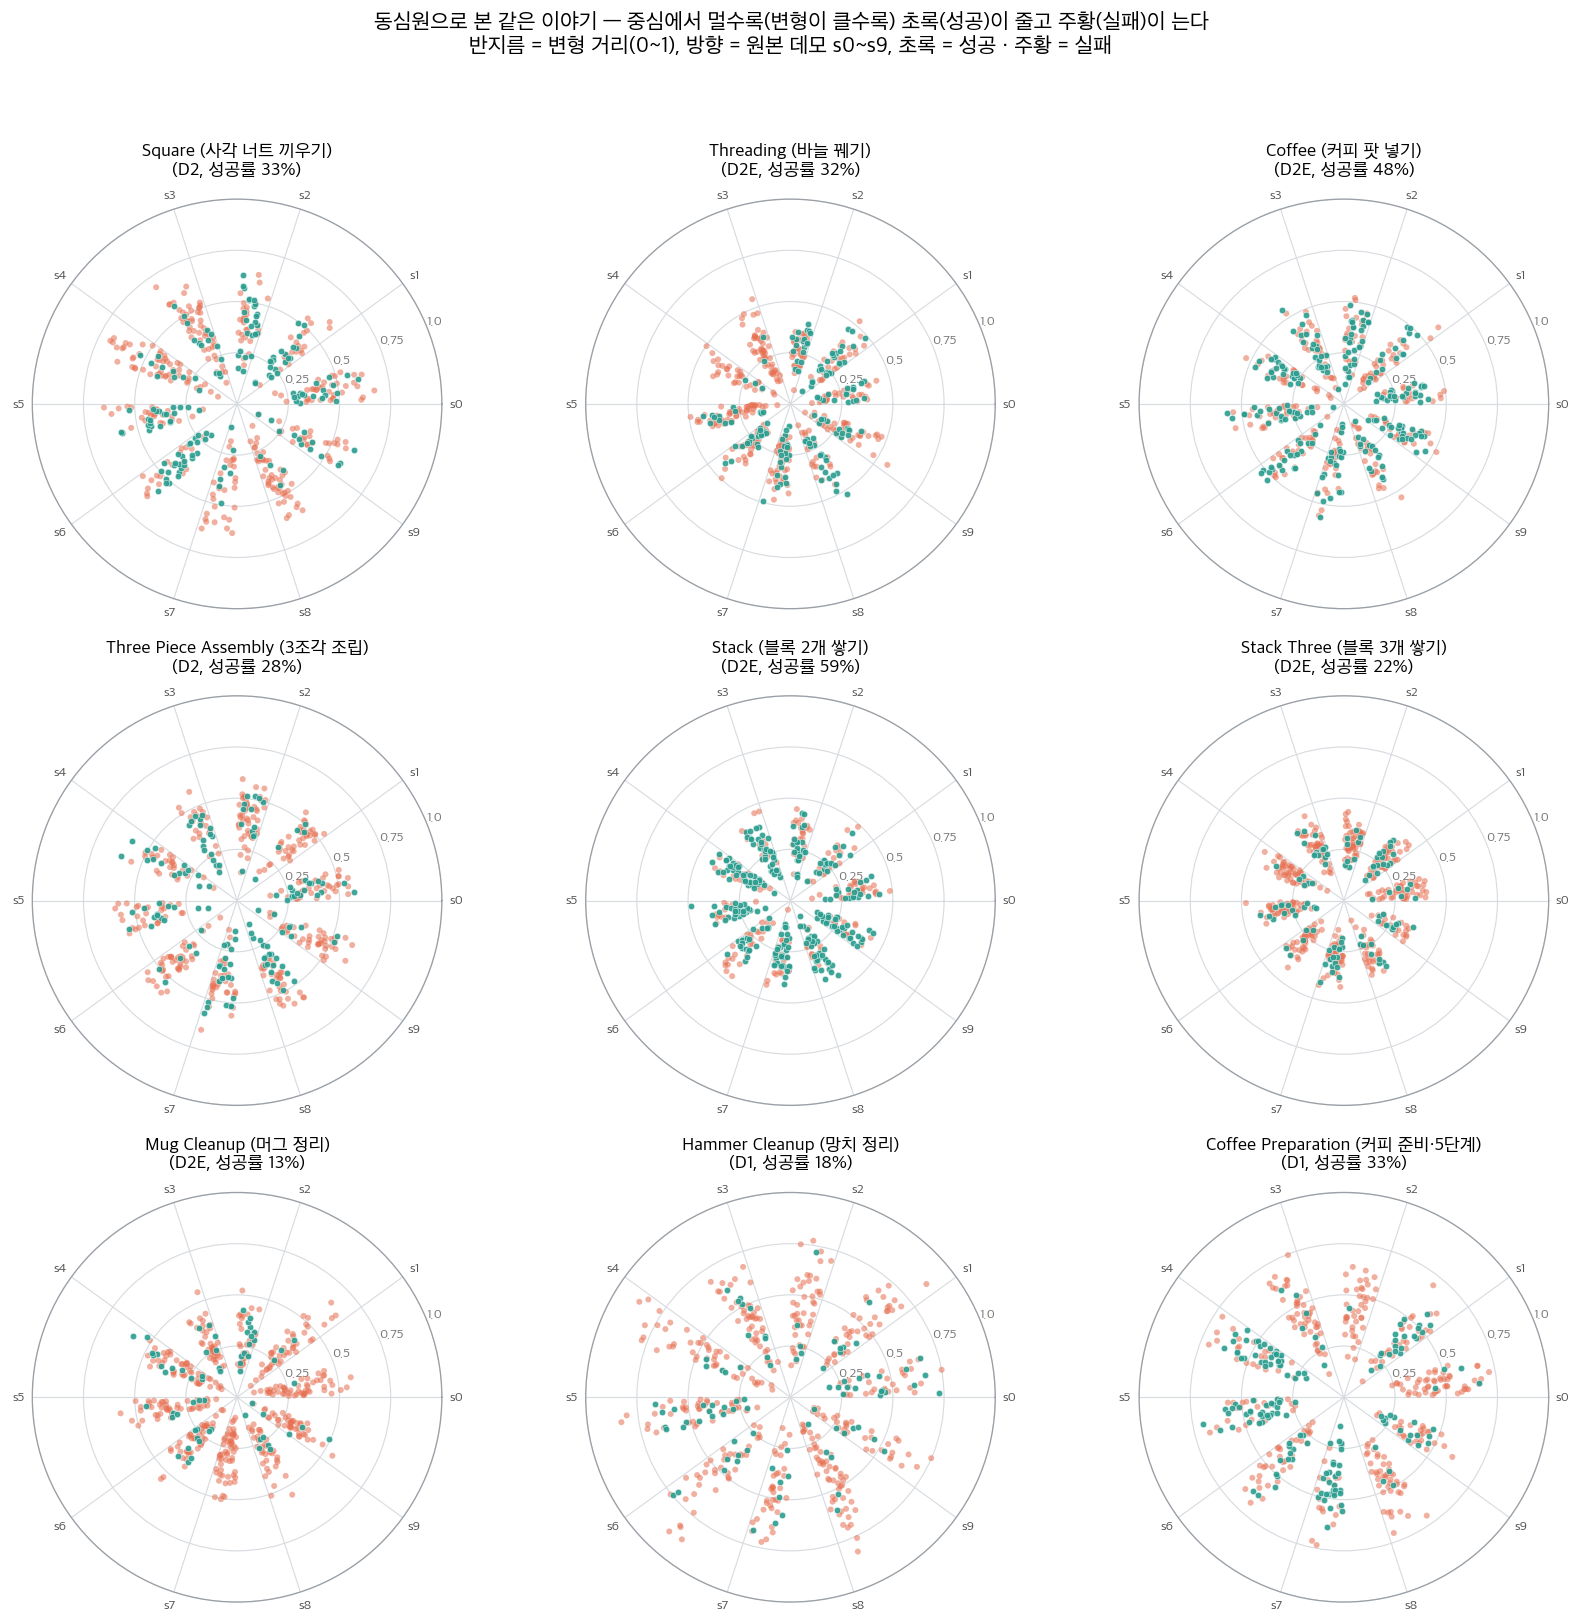
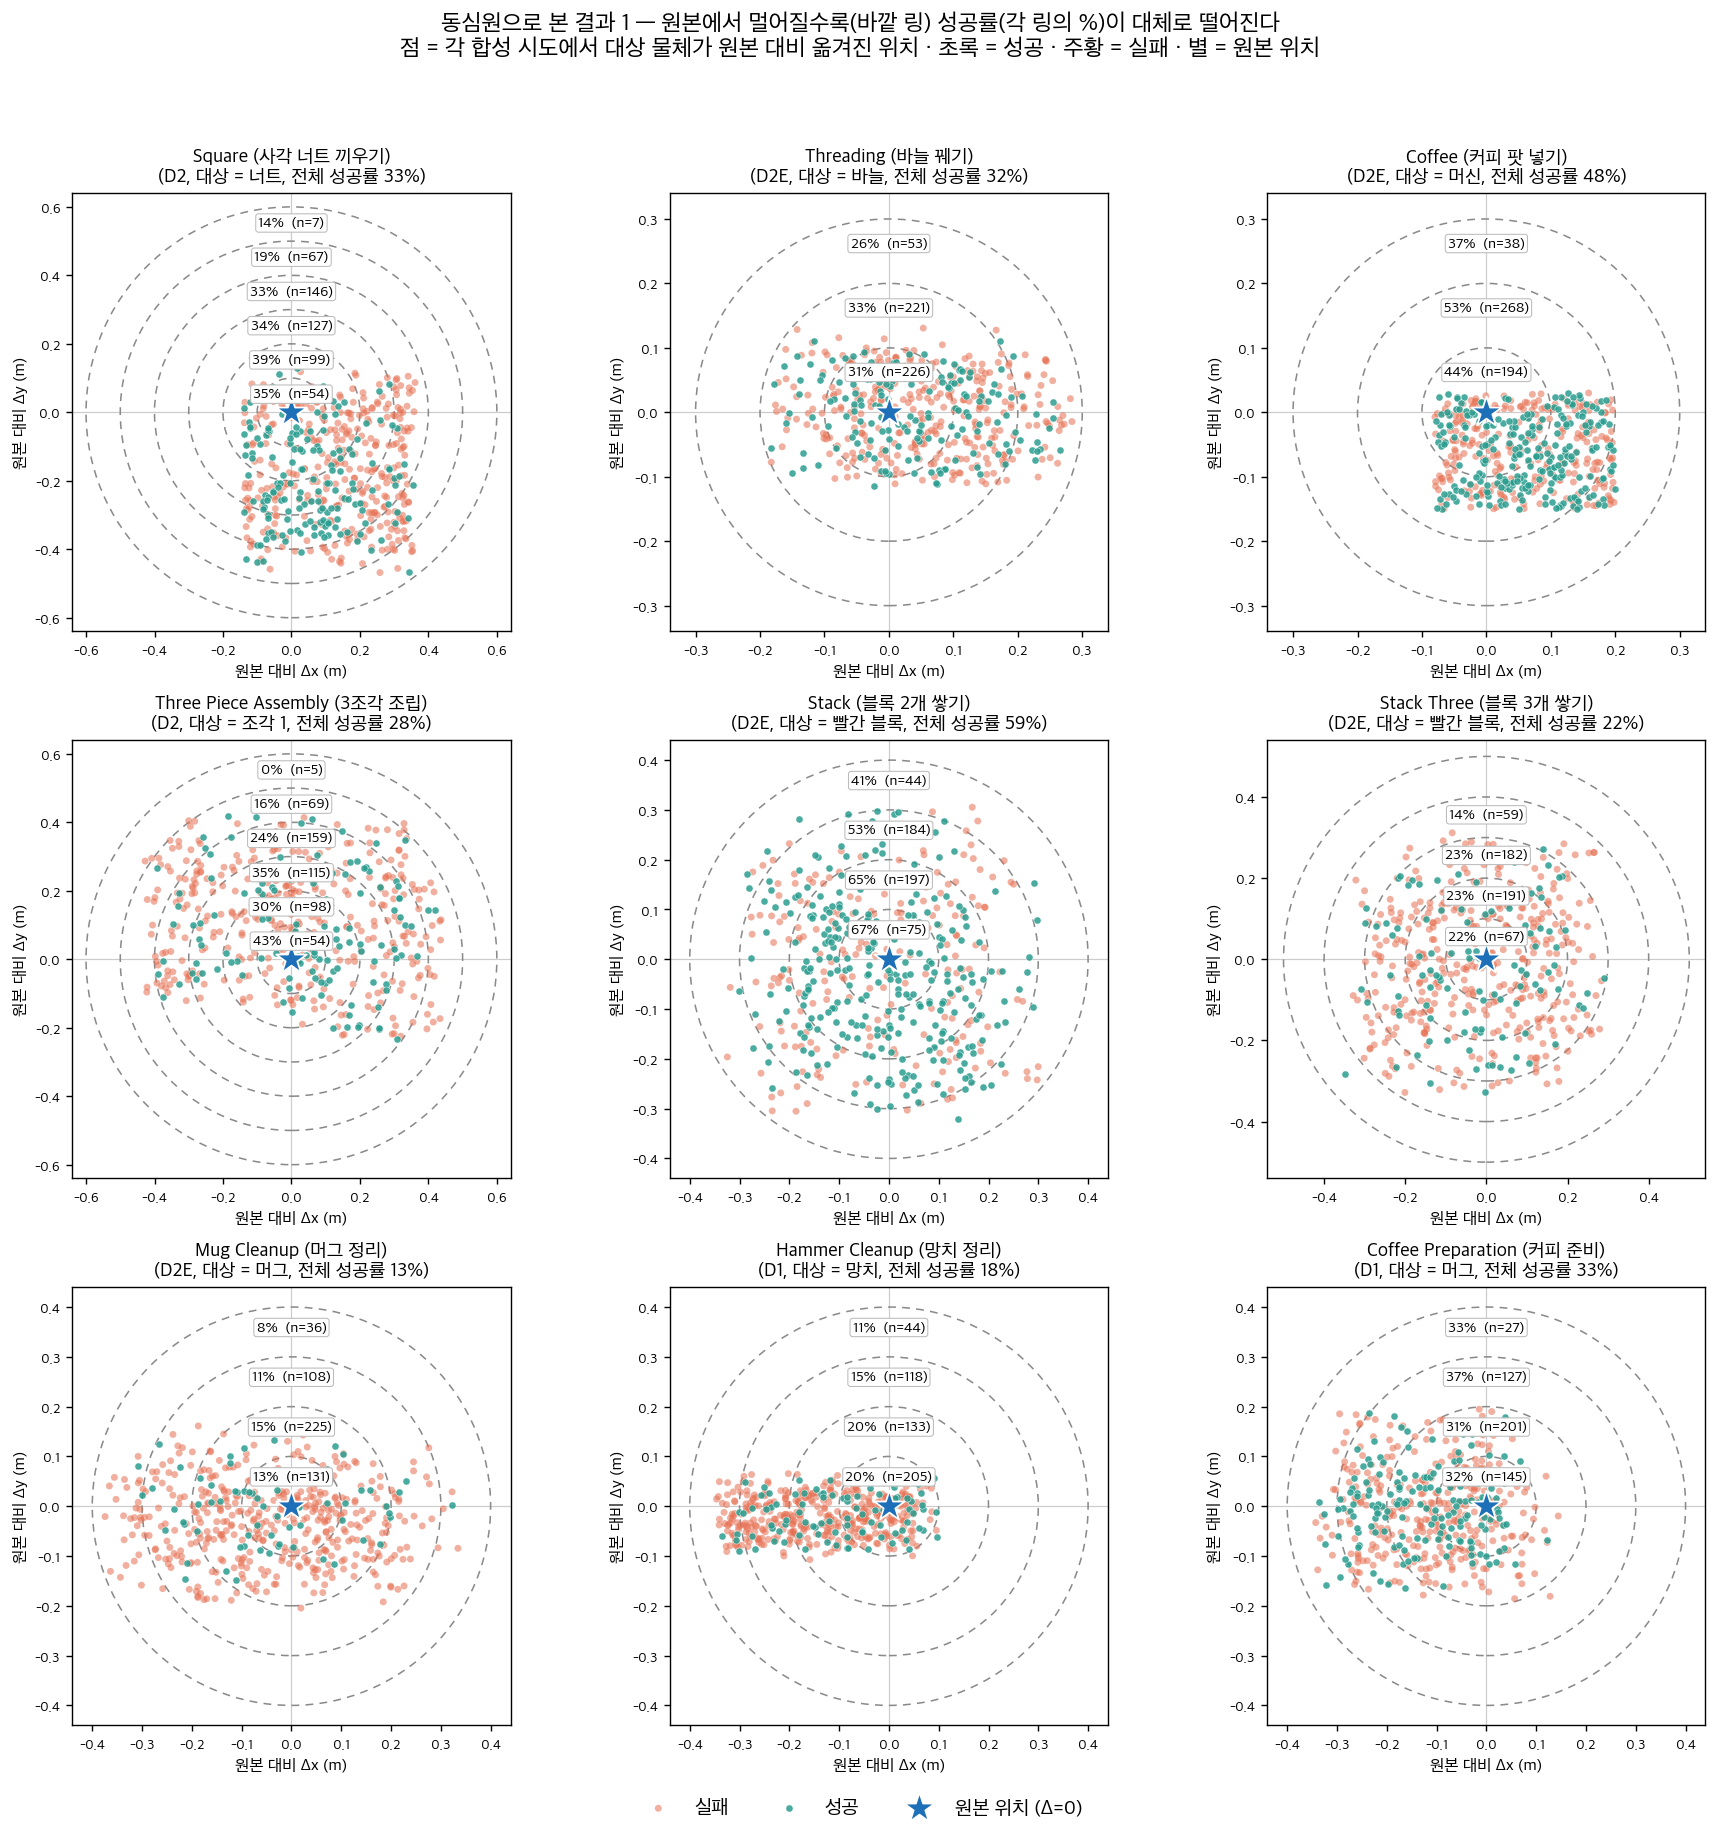
motivation report: equation images (no $$) + rebuild concentric as offset map
- render 6 formulas as PNG images, replace ```math fences with <img> so they
  render everywhere (GitHub/Notion/preview) with no stray $$ / raw LaTeX
- rebuild concentric_transform_9: real Δx/Δy offset map per task's primary
  object, source star at center, dashed rings each labeled with that band's
  DGR (matches MOTIVATION_FIGURES.md style) — replaces the source-index polar
  version; coffee uses machine + honest note (rotation-driven, flat xy)

diff --git a/Motivation_Extended_Tasks.md b/Motivation_Extended_Tasks.md
@@ -75,17 +75,13 @@ Three Piece Assembly는 조금 다르게 읽어야 한다. 이 작업은 D0→D1
 
 한 합성 시도를 `i`라 하고, 그 시도가 원본 데모 `s(i)`를 변형해서 만들어졌다고 하자. 작업에 움직이는 물체가 `M`개 있고, 물체 `m`의 초기 위치가 원본에서는 `x_src(m)`, 이번 합성 장면에서는 `x(m,i)`라면, 변형 거리는 각 물체가 옮겨 간 직선거리의 합이다.
 
-```math
-d_{\text{raw}}(i) = \sum_{m=1}^{M} \lVert x_{m}(i) - x^{\text{src}}_{m} \rVert_{2} \quad [\text{m}]
-```
+<div align="center"><img src="figures/motivation_ext/eq/d_raw.png" width="360" alt="d_raw(i) = 각 물체가 원본에서 옮겨간 직선거리의 합 (미터)"></div>
 
 - **왜 이 값인가** — MimicGen은 원본 궤적을 새 물체 위치로 "옮겨서" 쓴다. 옮기는 거리가 멀수록 원본 궤적을 더 많이 비틀어야 하고, 그만큼 실행이 어긋나 실패하기 쉽다. 그래서 이 거리가 곧 "이 시도가 얼마나 많이 변형해야 하는가"의 척도가 된다.
 - **어떻게 재는가** — 한 합성 시도가 시작될 때 각 물체의 초기 위치를 기록해 두면, 그 시도가 어느 원본에서 왔는지도 함께 기록되므로(뒤의 원본 쏠림 참조), 원본의 그 물체 위치와의 직선거리를 물체마다 계산해 더한다. 단위는 미터다. 예를 들어 Square에서 너트가 원본보다 20cm, 페그가 15cm 떨어진 곳에 놓였다면 이 시도의 변형 거리는 0.35m다.
 - **작업끼리 비교할 때의 정규화** — 작업마다 물체 크기와 영역 크기가 다르므로, 여러 작업을 한 그림에 겹쳐 비교할 때는 각 물체의 거리를 그 물체가 놓일 수 있는 영역(가장 넓은 단계 기준)의 대각선 길이 `L_m`으로 나눠 평균한다.
 
-```math
-d_{\text{pos}}(i) = \frac{1}{M}\sum_{m=1}^{M} \frac{\lVert x_{m}(i) - x^{\text{src}}_{m} \rVert_{2}}{L_{m}} \in [0, 1]
-```
+<div align="center"><img src="figures/motivation_ext/eq/d_pos.png" width="352" alt="d_pos(i) = 각 물체의 이동거리를 영역 대각선 L_m으로 나눠 평균, 0~1"></div>
 
   0은 원본과 같은 자리, 1은 그 영역에서 갈 수 있는 가장 먼 곳을 뜻한다. 한 작업 안에서의 경향만 볼 때는 미터 단위(`d_raw`)와 정규화 값(`d_pos`)이 사실상 같은 결과를 준다(9개 작업 모두에서 두 정의로 잰 거리-성공률 관계의 차이가 0.003 이하). 그래서 본문에서는 직관적인 미터 단위로 읽으면 된다.
 
@@ -99,28 +95,20 @@ d_{\text{pos}}(i) = \frac{1}{M}\sum_{m=1}^{M} \frac{\lVert x_{m}(i) - x^{\text{s
 
 원본이 `N=10`개라 하자. 시도 단계에서 원본 `j`가 쓰인 횟수를 `a_j`, 그중 성공해 살아남은 횟수를 `r_j`라 하고, 각 단계의 점유 비율을 이렇게 둔다.
 
-```math
-p^{\text{att}}_j = \frac{a_j}{\sum_k a_k}, \qquad p^{\text{ret}}_j = \frac{r_j}{\sum_k r_k}
-```
+<div align="center"><img src="figures/motivation_ext/eq/p_share.png" width="300" alt="p_att_j = 원본 j의 시도 비중, p_ret_j = 원본 j의 생존 비중"></div>
 
 몰린 정도는 **total-variation 거리(TV)** 로 잰다. 어떤 비율 분포 `p`가 완전히 고른 분포(각 원본 `1/N`)와 얼마나 다른지를 재는 표준적인 값으로, "몇 %의 데모를 다른 원본 몫으로 옮겨야 딱 고르게 되는가"로 읽으면 된다.
 
-```math
-\mathrm{TV}(p) = \tfrac{1}{2}\sum_{j=1}^{N} \left| p_j - \frac{1}{N} \right| \in \left[0,\ 1 - \tfrac{1}{N}\right]
-```
+<div align="center"><img src="figures/motivation_ext/eq/tv.png" width="360" alt="TV(p) = 분포 p가 고른 분포에서 떨어진 정도, 0 ~ 1-1/N"></div>
 
 원본 쏠림은 살아남은 데모의 TV에서 시도 단계의 TV를 뺀, **성공한 것만 남기는 과정에서 새로 생긴 몫**으로 정의한다.
 
-```math
-\text{skew} = \mathrm{TV}(p^{\text{ret}}) - \mathrm{TV}(p^{\text{att}})
-```
+<div align="center"><img src="figures/motivation_ext/eq/skew.png" width="292" alt="skew = 생존 분포의 TV에서 시도 분포의 TV를 뺀 값"></div>
 
 - **어떻게 읽나** — 0이면 살아남은 데모가 원본 10개에 완전히 고르게 퍼진 것이고, 클수록 몇 개 원본으로 몰린 것이다(최대 `1 - 1/N = 0.9`). 고르냐 몰렸냐를 재는 표준 거리라 "상위 몇 개" 같은 임의로 고른 기준이 필요 없다. 시도 단계의 TV를 빼 주는 이유는, 무작위로 골라도 우연히 생기는 약간의 불균형을 기준선으로 상쇄하고 **성공-필터링이 추가로 만든 쏠림만** 보기 위해서다. 실제로 시도 단계의 TV는 9개 작업 모두에서 0.04~0.07로 작아서(무작위 선택이 잘 작동해 시도는 고르다는 확인이다), skew는 사실상 살아남은 데모가 몰린 정도 그 자체다.
 - **함께 보는 값: 실질 원본 수 (`n_eff`)** — 살아남은 데모가 실질적으로 원본 몇 개에서 나온 셈인지를 하나의 숫자로 요약한 것으로, 역-심슨 지수로 정의한다.
 
-```math
-n_{\text{eff}} = \frac{1}{\sum_{j=1}^{N} \left(p^{\text{ret}}_j\right)^2}
-```
+<div align="center"><img src="figures/motivation_ext/eq/n_eff.png" width="150" alt="n_eff = 살아남은 데모가 실질적으로 나온 원본 수 (역-심슨 지수)"></div>
 
   완전히 고르면 `n_eff = 10`, 한 원본에 다 몰리면 1이다. 예를 들어 뒤에 나오는 Mug Cleanup의 가장 넓은 단계에서는 `n_eff = 6.9`로, 원본 10개 중 실질적으로 7개 정도만 데이터에 기여한 셈이다.
 - **왜 중요한가** — 이 쏠림은 "어떤 물체 위치가 데이터에 많고 적은가"(초기 위치의 편향)와는 다른, 한 겹 더 깊은 편향이다. 출신 원본이 몰린다는 건 곧 그 몇 개 원본의 **움직이는 방식**이 데이터를 지배한다는 뜻이고, 로봇이 배우는 동작의 다양성이 좁아질 수 있다.
@@ -145,12 +133,12 @@ n_{\text{eff}} = \frac{1}{\sum_{j=1}^{N} \left(p^{\text{ret}}_j\right)^2}
 
 ### 같은 결과를 동심원으로
 
-같은 이야기를 한눈에 보이게 동심원으로도 그렸다. 각 점은 하나의 합성 시도다. **중심에서 멀수록 변형 거리가 크고**(반지름 = 정규화 거리 0~1), **방향은 그 시도의 출신 원본**(s0~s9의 10개 방향으로 나눔), **초록은 성공·주황은 실패**다.
+결과 1을 위치 지도로도 그렸다. 각 점은 하나의 합성 시도이고, 점의 위치는 그 작업에서 가장 많이 옮겨지는 물체가 원본 위치(가운데 별, Δ=0)에서 어느 방향으로 얼마나 벗어났는지를 미터 단위로 나타낸다. 초록은 성공, 주황은 실패다. 점선 동심원은 원본에서의 거리(0.1m 간격)이고, 원 옆의 숫자는 그 거리 구간의 생성 성공률(과 그 구간에 든 시도 수)이다.
 
 <img src="figures/motivation_ext/concentric_transform_9.png" width="100%">
 
-- **안쪽은 초록, 바깥으로 갈수록 주황** — 결과 1의 곡선을 반지름 방향으로 눕힌 셈이다. 중심 근처(원본과 비슷한 위치)는 대부분 성공하고, 테두리로 갈수록 실패가 는다.
-- **아예 통째로 주황인 방향이 보인다** — Hammer Cleanup, Mug Cleanup, Coffee Preparation을 보면 특정 원본(방향) 하나가 거의 전부 주황이다. 그 원본에서 나온 시도는 성공을 거의 못 남긴다는 뜻이고, 이게 바로 다음 절에서 볼 원본 쏠림이다. 즉 이 한 그림 안에 결과 1(반지름 방향)과 결과 2(방향별 성공 편차)가 같이 담겨 있다.
+- **안쪽 원은 초록, 바깥 원으로 갈수록 주황** — 링에 적힌 성공률이 바깥으로 갈수록 내려간다(Stack 67 → 65 → 53 → 41%, Square 안쪽 33~39%대에서 바깥 19 → 14%, Mug Cleanup 13 → 11 → 8%, Hammer Cleanup 20 → 15 → 11%). 결과 1의 곡선을 위에서 내려다본 그림인 셈이다.
+- **Coffee 계열은 예외적으로 완만하다** — Coffee와 Coffee Preparation은 링별 성공률이 거의 평평하다. 이 두 작업은 난이도가 물체의 좌우 위치보다 커피 머신의 회전과 여러 단계 수행에서 오기 때문이다. 앞서 Three Piece Assembly가 위치가 아니라 회전으로 넓어졌던 것과 같은 맥락으로, 위치만 그린 이 지도에서는 잘 드러나지 않는다.
 
 ## 결과 2 — 성공이 드문 작업일수록 몇몇 원본으로 더 쏠린다
 